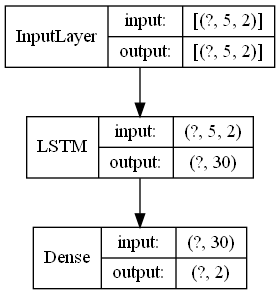
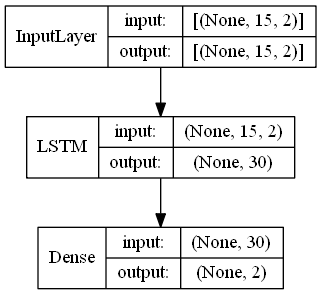
change some code

diff --git a/MVLSTMmain/FCProcess/Process_V5MVLSTM.py b/MVLSTMmain/FCProcess/Process_V5MVLSTM.py
@@ -23,8 +23,8 @@ import NNkeras.kerasInit as kInit
 import NNModel.VLSTM
 import NNModel.NN
 
-#CHANGED 2入力2次元
-model_Input_Output = 2 #1入力1出力学習と2入力2出力学習を切り替える変数。次元数をここで指定する。入力と出力の次元数は同じ。0なら1次元と2次元両方。
+
+model_Input_Output = 0 #1入力1出力学習と2入力2出力学習を切り替える変数。次元数をここで指定する。入力と出力の次元数は同じ。0なら1次元と2次元両方。
 
 def ProcessMVLSTM(original_data, original_valdata_list, starttime, hyper_parameter, pred_step, stepnum, R_num):
     #このプログラムの開始時刻取得
@@ -107,12 +107,12 @@ def ProcessMVLSTM(original_data, original_valdata_list, starttime, hyper_paramet
     #whole_data = 65536
     #whole_data = 150
     #whole_data = 15360 #256個60日
-    whole_data = 60000 #100個60日 #my 100個6日(seed10種)
+    whole_data = 1200 #100個60日 #my 100個6日(seed10種) #CHANGED 一時的に変更中200個1日(seed6種)
     #whole_data = 300
     #whole_data = 4000
     #学習したい日数
     #train_date = 3 #whole_data/train_dateが1日あたりに取得したい訓練データの個数。
-    train_date = 60 #my 1回のシミュレーションから取得したい訓練データの数。
+    train_date = 6 #my 1回のシミュレーションから取得したい訓練データの数。日数*seed種数  #CHANGED 一時的に変更中
     #train_date = 40
 
     #オリジナルデータをLSTMの訓練データの形に変形する。Window_sizeステップずつに切り分けて教師データとセットにする。
@@ -146,7 +146,6 @@ def ProcessMVLSTM(original_data, original_valdata_list, starttime, hyper_paramet
     elif model_Input_Output == 2: #2入力2出力
         #剪定済み訓練データと訓練データ総数を返される
         trainset,trainLabset,sample_size = mkdataset.VarStepVLSTMdataset4(preprocessed_original_data,hyper_parameter["window_len"],stepnum,whole_data,train_date) #2入力2出力
-        #bookmark データが足りず進行不可
         #学習と交差検証の実施
         train_func(trainset,trainLabset,whole_data,sample_size,
                    valInset,valLabset,valSampleSize,

diff --git a/MVLSTMmain/MVLSTMmain.py b/MVLSTMmain/MVLSTMmain.py
@@ -37,11 +37,11 @@ def main():
     #Hyper-Parameter設定
     hyper_parameter = { "train_cut"      :0,            #テストデータの指定番目以降を使用してテストさせるか
                         "median"         :1,  #5        #メディアンフィルタ(平滑化)において、メディアンをとる長さ
-                        "window_len"     :5, #15       #学習における時系列データの窓長
+                        "window_len"     :15, #5       #学習における時系列データの窓長　#[x] あとで15にしとく
                         "layerH_unit"    :30,           #隠れ層のニューロン(ユニット)の数
                         "dropout_rate"   :0.2,          #Dropoutにおいて何割ニューロンを非活性化させるか
                         "epoch"          :150,          #何周学習データを使って学習させるか
-                        "batch_size"     :1200,          #重みの更新間隔をバッチ何個分ずつにするか #CHANGED 鉢嶺さんのスライドでは1200でやってるが...
+                        "batch_size"     :240,          #重みの更新間隔をバッチ何個分ずつにするか #CHANGED 鉢嶺さんのスライドに合わせた 総数/5にしとく
                         "optimizer"      :"RMSprop"     #最適化関数をどれにするか
     }
     #window_size_list     = [30,60,120]

diff --git a/MVLSTMmain/FCProcess/preprocess/process_cross_validation.py b/MVLSTMmain/FCProcess/preprocess/process_cross_validation.py
@@ -111,6 +111,7 @@ class cross_validation:
                                             tensorboard_path=self.folder_path,
                                             model_Input_Output = self.model_Input_Output)
 
+    #? 110から120にしたほうがいいかもしれない おそらく最高速度
     def velify(self,validIn,validLab,val_mode):
         '''
         予測精度の検証
@@ -237,7 +238,7 @@ class cross_validation:
                 random.seed(1)#間引く用の乱数の種
                 cut_pred     = np.array(random.sample(pred.tolist(),20000))
             else:
-                cut_valLab1 = copy.deepcopy(valiLab1)
+                cut_valLab1 = copy.deepcopy(valLab1) #? valLab1のタイプミスか？
                 cut_pred = copy.deepcopy(pred)
             plt.scatter(cut_valLab1*110, cut_pred*110,s=1) #プロットするデータとマーカーのサイズを指定
             plt.xlim(0, 110) #横軸の最小値最大値を指定

diff --git a/MVLSTMmain/FCProcess/preprocess/Preprocessing.py b/MVLSTMmain/FCProcess/preprocess/Preprocessing.py
@@ -94,7 +94,7 @@ def Normarizing2(ts_data):
     #最大値リスト内の最大値を求める。自車速度と前方範囲平均の両方の中での最大値を求める。nanを含むリストなのでnanmaxを用いる。
     #ts_data_max = np.nanmax(array_ts_data_maxlist)
     #正規化に用いる最大値は交通流simで取り得る最高速度の値
-    ts_data_max = 120/3.66 #CHANGED 現在最高速度は第2走行車線が120km/km
+    ts_data_max = 110/3.66 #CHANGED 現在最高速度は第2走行車線が110km/km
 
     #最大値で生データを割って、正規化する。最大値が1となる。最小値は元々0。
     normarized_ts_data = [ts_data[i]/ts_data_max for i in range(len(ts_data))]

diff --git a/MVLSTMmain/FCProcess/preprocess/Process_train.py b/MVLSTMmain/FCProcess/preprocess/Process_train.py
@@ -27,7 +27,6 @@ def train_func(trainset,trainLabset,whole_data,sample_size,valInset_list,valLabs
     print("必要学習データ数 : ",whole_data)
     print()
 
-    #[] 学習データ足りてない　　準備データ数 :  100 必要学習データ数 :  6000
     if sample_size < whole_data:
         need_data_size = round((whole_data/sample_size),2)
         print("学習データ不足です。約" , need_data_size , "倍以上のデータを用意してください。")
